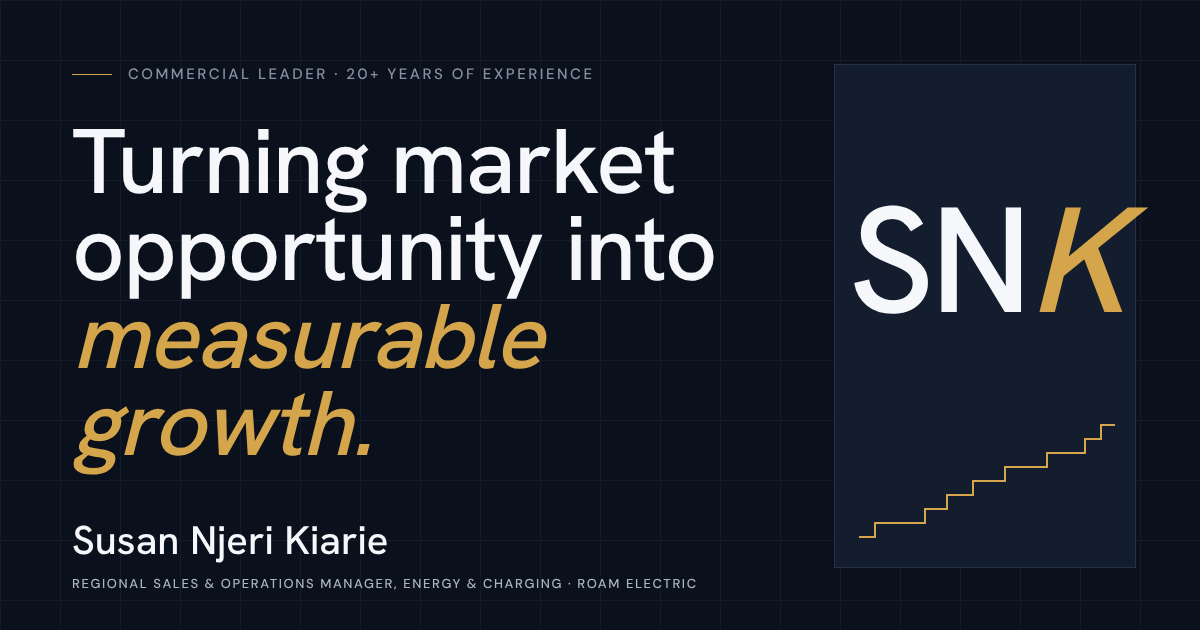
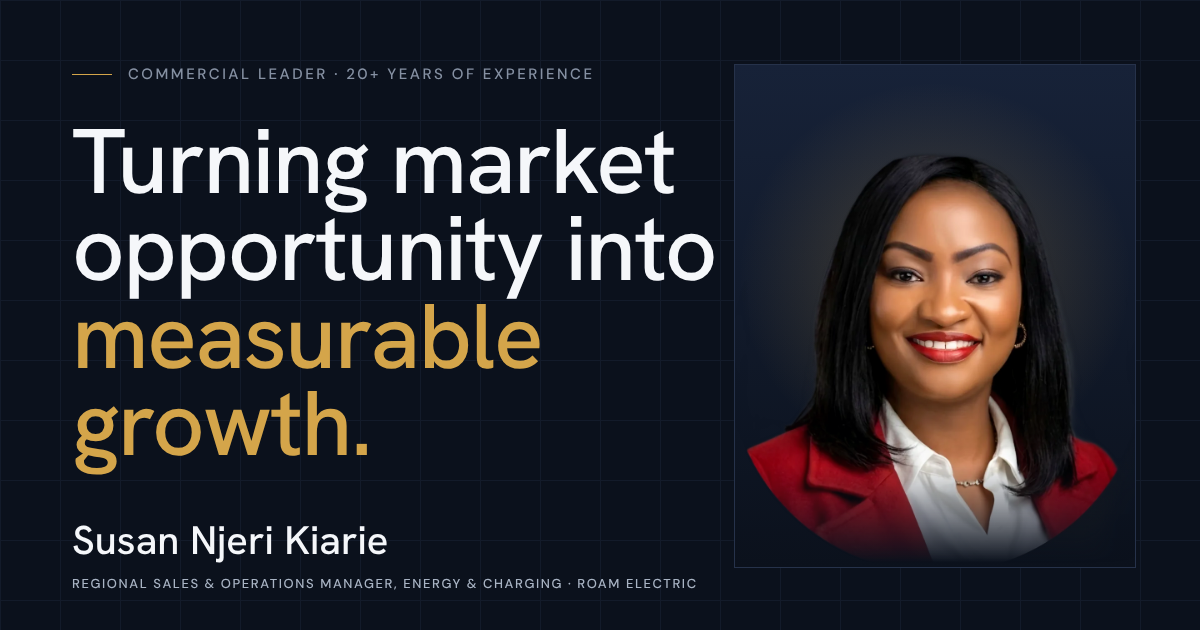
Add files via upload

diff --git a/index.html b/index.html
@@ -204,7 +204,7 @@ section { position: relative; padding-block: clamp(80px, 10vw, 152px); }
 .bring .bio { grid-column: 1 / span 5; margin-top: clamp(40px, 5vw, 72px); display: grid; gap: 18px; align-self: start; align-content: start; }
 .bring .bio p { color: var(--ink-2); max-width: 54ch; }
 .bring .bio p:first-child { color: var(--ink); font-size: 1.12rem; }
-.pillars { grid-column: 7 / span 6; margin-top: clamp(40px, 5vw, 72px); display: grid; grid-template-columns: repeat(2, minmax(0, 1fr)); column-gap: 28px; }
+.pillars { align-self: start; align-content: start; grid-column: 7 / span 6; margin-top: clamp(40px, 5vw, 72px); display: grid; grid-template-columns: repeat(2, minmax(0, 1fr)); column-gap: 28px; }
 .pillars li { padding: 20px 0 24px; border-top: 1px solid var(--rule); min-width: 0; }
 .pillars h3 { font-family: var(--serif); font-size: 1.45rem; line-height: 1.12; }
 .pillars p { margin-top: 8px; font-size: 0.9rem; line-height: 1.5; color: var(--ink-2); }
@@ -695,6 +695,46 @@ a.tile:focus-visible { outline: 2px solid var(--copper); outline-offset: 8px; }
   .node.hot b { font-size: 3rem; }
 }
 
+/* ---------- Photographs of Susan ---------- */
+.portrait.has-photo { background: radial-gradient(70% 55% at 50% 42%, rgba(212, 165, 74, 0.26), transparent 70%), linear-gradient(180deg, #172238 0%, #0B111C 100%); }
+.portrait.has-photo img { position: absolute; left: 0; right: 0; bottom: 0; width: 100%; height: auto; object-fit: contain; -webkit-mask-image: linear-gradient(to bottom, #000 74%, transparent 99%); mask-image: linear-gradient(to bottom, #000 74%, transparent 99%); filter: drop-shadow(0 18px 40px rgba(0, 0, 0, 0.45)); }
+.pt-mark { position: absolute; left: 22px; top: 18px; font: 600 1.15rem/1 var(--serif); letter-spacing: 0.02em; color: rgba(245, 247, 250, 0.7); pointer-events: none; z-index: 2; }
+.pt-mark i { font-style: normal; color: var(--copper); }
+
+.cut-photo { position: relative; margin: 28px 0 0; display: grid; justify-items: center; }
+.cut-photo::before { content: ""; position: absolute; left: 10%; right: 10%; bottom: 18px; height: 46px; border-radius: 50%; background: radial-gradient(closest-side, rgba(212, 165, 74, 0.38), transparent); filter: blur(4px); }
+.cut-photo img { position: relative; width: auto; max-width: 100%; max-height: 600px; height: auto; -webkit-mask-image: linear-gradient(to bottom, #000 82%, transparent 100%); mask-image: linear-gradient(to bottom, #000 82%, transparent 100%); filter: drop-shadow(0 10px 18px rgba(0, 0, 0, 0.35)); }
+.cut-photo figcaption { position: relative; margin-top: 4px; font: 600 0.7rem/1.3 var(--sans); letter-spacing: 0.16em; text-transform: uppercase; color: var(--on-navy-3); display: flex; align-items: center; gap: 10px; }
+.cut-photo figcaption::before { content: ""; width: 22px; height: 1px; background: var(--copper); }
+.lead-l .cut-photo img { max-height: 560px; }
+
+.sig.with-award { grid-template-columns: minmax(0, 2fr) minmax(0, 6fr) minmax(0, 3fr); align-items: center; }
+.sig.with-award .award { max-width: 320px; justify-self: end; }
+.award { margin: 0; perspective: 900px; }
+.award-frame { transform: rotateY(var(--ry, -8deg)) rotateX(var(--rx, 2deg)); transition: transform .6s cubic-bezier(.2,.7,.1,1); transform-style: preserve-3d; box-shadow: 0 30px 60px -20px rgba(0, 0, 0, 0.8), 0 0 0 1px rgba(212, 165, 74, 0.45); }
+.award-frame img { display: block; width: 100%; height: auto; }
+.award figcaption { margin-top: 14px; font: 600 0.7rem/1.4 var(--sans); letter-spacing: 0.14em; text-transform: uppercase; color: var(--on-navy-3); }
+
+.sign { display: flex; align-items: center; gap: 14px; margin-bottom: 24px; }
+.sign img { width: 64px; height: 64px; border-radius: 50%; object-fit: cover; border: 1px solid var(--copper); box-shadow: 0 0 0 4px rgba(212, 165, 74, 0.12); }
+.sign b { display: block; font: 500 1.1rem/1.2 var(--serif); color: var(--on-navy); }
+.sign span { display: block; font-size: 0.82rem; color: var(--on-navy-3); margin-top: 2px; }
+
+@media (max-width: 1020px) {
+  .sig.with-award { grid-template-columns: minmax(0, 1fr); }
+  .award { max-width: 420px; }
+  .cut-photo img { max-height: 520px; }
+}
+@media (max-width: 600px) {
+  .cut-photo img, .lead-l .cut-photo img { max-height: 440px; }
+  .award-frame { transform: none; }
+}
+@media (prefers-reduced-motion: reduce) { .award-frame { transform: none !important; } }
+@media (max-width: 1020px) {
+  .hero-figure { order: -1; margin: 0 0 36px; max-width: 300px; }
+  .hero-figure figcaption { display: none; }
+}
+
 </style>
 </head>
 <body>
@@ -733,18 +773,9 @@ a.tile:focus-visible { outline: 2px solid var(--copper); outline-offset: 8px; }
     </div>
     <figure class="hero-figure">
       <span class="corner tl" aria-hidden="true"></span><span class="corner br" aria-hidden="true"></span>
-      <div class="portrait">
-        <svg viewBox="0 0 400 500" role="img" aria-label="SNK monogram for Susan Njeri Kiarie, with a stepped line marking each career move from 2005 to 2026">
-          <defs><pattern id="g" width="50" height="50" patternUnits="userSpaceOnUse"><path d="M50 0H0V50" fill="none" stroke="var(--navy-rule)" stroke-width="0.6"/></pattern></defs>
-          <rect width="400" height="500" fill="url(#g)"/>
-          <text x="24" y="40" font-family="DM Sans, sans-serif" font-weight="600" font-size="10.5" letter-spacing="1.8" fill="var(--on-navy-3)">NAIROBI · 1°17′S 36°49′E</text>
-          <text x="376" y="40" text-anchor="end" font-family="DM Sans, sans-serif" font-weight="600" font-size="10.5" letter-spacing="1.8" fill="var(--on-navy-3)">20+ YRS</text>
-          <text x="200" y="262" text-anchor="middle" font-family="Clash Grotesk, Hanken Grotesk, sans-serif" font-weight="600" font-size="168" letter-spacing="-4" fill="var(--on-navy)">SN<tspan font-style="italic" fill="var(--copper)">K</tspan></text>
-          <path class="draw" d="M30 448 H35.1 V433 H99.5 V418 H120.1 V403 H147.1 V388 H180.7 V373 H233.5 V358 H285.0 V343 H339.1 V328 H357.2 V313 H370" fill="none" stroke="var(--copper)" stroke-width="1.6"/><circle cx="35.1" cy="433" r="2.6" fill="var(--navy)" stroke="var(--copper)" stroke-width="1.2"/><circle cx="99.5" cy="418" r="2.6" fill="var(--navy)" stroke="var(--copper)" stroke-width="1.2"/><circle cx="120.1" cy="403" r="2.6" fill="var(--navy)" stroke="var(--copper)" stroke-width="1.2"/><circle cx="147.1" cy="388" r="2.6" fill="var(--navy)" stroke="var(--copper)" stroke-width="1.2"/><circle cx="180.7" cy="373" r="2.6" fill="var(--navy)" stroke="var(--copper)" stroke-width="1.2"/><circle cx="233.5" cy="358" r="2.6" fill="var(--navy)" stroke="var(--copper)" stroke-width="1.2"/><circle cx="285.0" cy="343" r="2.6" fill="var(--navy)" stroke="var(--copper)" stroke-width="1.2"/><circle cx="339.1" cy="328" r="2.6" fill="var(--navy)" stroke="var(--copper)" stroke-width="1.2"/><circle cx="357.2" cy="313" r="2.6" fill="var(--navy)" stroke="var(--copper)" stroke-width="1.2"/>
-          <text x="30" y="478" font-family="DM Sans, sans-serif" font-weight="600" font-size="10.5" fill="var(--on-navy-3)">2005</text>
-          <text x="200" y="478" text-anchor="middle" font-family="DM Sans, sans-serif" font-weight="600" font-size="9.5" letter-spacing="1.6" fill="var(--on-navy-3)">CAREER MOVES</text>
-          <text x="370" y="478" text-anchor="end" font-family="DM Sans, sans-serif" font-weight="600" font-size="10.5" fill="var(--on-navy-3)">2026</text>
-        </svg>
+      <div class="portrait has-photo">
+        <span class="pt-mark" aria-hidden="true">SN<i>K</i></span>
+        <img src="assets/photos/susan-portrait.webp" alt="Susan Njeri Kiarie, smiling, in a red blazer and white shirt" width="960" height="1021" fetchpriority="high">
       </div>
       <figcaption><span>Susan Njeri Kiarie</span><span>Roam Electric · Nairobi, Kenya</span></figcaption>
     </figure>
@@ -758,7 +789,9 @@ a.tile:focus-visible { outline: 2px solid var(--copper); outline-offset: 8px; }
   <div class="wrap grid12">
     <p class="kicker" style="grid-column:1/-1">What I bring</p>
     <h2 class="statement" id="about-h">I build markets, scale businesses and turn partnerships into <span class="em">measurable growth</span>.</h2>
-    <div class="bio"><p>With 20+ years of experience in commercial leadership, I have worked for start-ups, market leaders and market challengers in Africa, selling to businesses, consumers and government. Today I lead regional sales and operations for energy and charging at Roam Electric in Nairobi.</p><p>My career runs from healthcare through telecommunications and IoT to renewable energy and electric mobility. In each, the work has been to set the commercial direction, open the market, build the team and partner channels, and keep a firm hand on margin, working capital and cost.</p></div>
+    <div class="bio"><p>With 20+ years of experience in commercial leadership, I have worked for start-ups, market leaders and market challengers in Africa, selling to businesses, consumers and government. Today I lead regional sales and operations for energy and charging at Roam Electric in Nairobi.</p><p>My career runs from healthcare through telecommunications and IoT to renewable energy and electric mobility. In each, the work has been to set the commercial direction, open the market, build the team and partner channels, and keep a firm hand on margin, working capital and cost.</p>
+      <figure class="cut-photo rv"><img src="assets/photos/susan-un-nairobi.webp" alt="Susan Njeri Kiarie at the United Nations offices in Nairobi, in a pink patterned dress and white cardigan" width="560" height="1400" loading="lazy"><figcaption>United Nations, Nairobi</figcaption></figure>
+    </div>
     <ul class="pillars"><li class="rv"><h3>Commercial strategy &amp; revenue growth</h3><p>Set the East Africa sales and business development strategy at Sagemcom and delivered US$10M+ in annual contract value.</p></li><li class="rv"><h3>Regional expansion &amp; market development</h3><p>Subsidiaries and offices in Uganda, Tanzania, Burundi and Mozambique, and a branch in Mombasa.</p></li><li class="rv"><h3>Renewable energy &amp; electric mobility</h3><p>Solar leasing and PPAs at ecoligo. EV charging, solar PV and battery storage at Roam Electric.</p></li><li class="rv"><h3>Telecoms, IoT &amp; enterprise technology</h3><p>M2M and IoT channels at Vodafone/Vodacom, operator and vendor accounts across the region, and cybersecurity and IT services.</p></li><li class="rv"><h3>Business transformation &amp; operational excellence</h3><p>Turnaround consultancy that lifted sales revenue by at least 30%, and end-to-end regional operations at Roam Electric.</p></li><li class="rv"><h3>Strategic partnerships &amp; leadership</h3><p>EPC and developer partners, channel partner networks, and teams of 5 to 40 people.</p></li>
     </ul>
   </div>
@@ -851,7 +884,8 @@ a.tile:focus-visible { outline: 2px solid var(--copper); outline-offset: 8px; }
       </div>
     </div>
 
-    <div class="sig"><span>Why it matters</span><p>Each contract was a power purchase or lease-to-own agreement, so the record year became revenue that recurs. The new Uganda operation added US$6M in deals in its first year.</p></div>
+    <div class="sig"><span>Why it matters</span><p>Each contract was a power purchase or lease-to-own agreement, so the record year became revenue that recurs. The new Uganda operation added US$6M in deals in its first year.</p>
+    </div>
   </div>
 </section>
 <section class="story s-navy grain bg-st-sagemcom" id="story-sagemcom" aria-labelledby="st-sagemcom">
@@ -874,7 +908,8 @@ a.tile:focus-visible { outline: 2px solid var(--copper); outline-offset: 8px; }
       </div>
     </div>
 
-    <div class="sig"><span>Why it matters</span><p>The share gain came through expansion: a new subsidiary in Uganda and new projects in Tanzania and Zambia, alongside monthly recurring revenue from projects.</p></div>
+    <div class="sig"><span>Why it matters</span><p>The share gain came through expansion: a new subsidiary in Uganda and new projects in Tanzania and Zambia, alongside monthly recurring revenue from projects.</p>
+    </div>
   </div>
 </section>
 <section class="story s-navy grain bg-st-vodafone" id="story-vodafone" aria-labelledby="st-vodafone">
@@ -888,7 +923,8 @@ a.tile:focus-visible { outline: 2px solid var(--copper); outline-offset: 8px; }
       <div class="rolebox"><span class="role-h">My role</span><ul class="role"><li>Designed and ran direct and indirect M2M and IoT sales channels.</li><li>Recruited channel partners and built a local IoT ecosystem in vertical industries.</li><li>Signed key partners, including Safaricom and Mezzanine, away from the competition.</li></ul></div>
     </div>
 
-    <div class="sig"><span>Recognition</span><p>I was named Best IoT/M2M Sales Person of the Year 2015–2016 at the Vodacom Sales Conference in Sun City, South Africa.</p></div>
+    <div class="sig with-award"><span>Recognition</span><p>I was named Best IoT/M2M Sales Person of the Year 2015–2016 at the Vodacom Sales Conference in Sun City, South Africa.</p><figure class="award rv"><div class="award-frame" data-tilt-card><img src="assets/photos/vodacom-award-2015-2016.webp" alt="Framed Vodacom Award of Excellence 2015–2016 certificate awarded to Susan Kiarie, beside a crystal trophy" width="900" height="984" loading="lazy"></div><figcaption>Vodacom Award of Excellence, 2015–2016</figcaption></figure>
+    </div>
   </div>
 </section>
 <section class="story s-navy grain bg-stool" aria-label="More milestones">
@@ -1116,6 +1152,7 @@ a.tile:focus-visible { outline: 2px solid var(--copper); outline-offset: 8px; }
       <h2 class="h2" id="lead-h">Building the teams that carry the number.</h2>
       <p class="lede">Across my career I have hired and supervised teams of between 5 and 40 people. I have built teams for new markets and rebuilt struggling ones.</p>
       <div class="lead-big rv"><b>5–40</b><span>people in the teams I have hired and supervised</span></div>
+      <figure class="cut-photo spot rv"><img src="assets/photos/susan-green-skills-summit.webp" alt="Susan Njeri Kiarie at the Africa Green Skills Summit, wearing a conference lanyard" width="760" height="1344" loading="lazy"><figcaption>Africa Green Skills Summit</figcaption></figure>
     </div>
     <div class="lead-r">
       <div class="lead-stats"><div><b>40</b><span>employees recruited at Mobiserve</span></div><div><b>+32 pts</b><span>teamwork and collaboration score, ecoligo team</span></div></div>
@@ -1150,6 +1187,7 @@ a.tile:focus-visible { outline: 2px solid var(--copper); outline-offset: 8px; }
     <p class="kicker" style="grid-column:1/-1">Contact</p>
     <h2 id="contact-h">Let’s build what comes <span class="em">next.</span></h2>
     <div class="contact-l">
+      <div class="sign"><img src="assets/photos/susan-avatar.webp" alt="" width="72" height="72" loading="lazy"><div><b>Susan Njeri Kiarie</b><span>Regional Sales &amp; Operations Manager, Energy &amp; Charging, Roam Electric</span></div></div>
       <p>I am open to conversations about commercial leadership, strategic partnerships, business growth and opportunities to scale across African markets.</p>
       <ul class="aud" aria-label="Conversations I welcome"><li>Executive search</li><li>Board &amp; advisory roles</li><li>Strategic partnerships</li><li>Market expansion</li></ul>
       <div class="contact-cta">
@@ -1380,6 +1418,19 @@ a.tile:focus-visible { outline: 2px solid var(--copper); outline-offset: 8px; }
         el.style.setProperty("--rx", (-y * 8).toFixed(2) + "deg");
       });
       host.addEventListener("pointerleave", function () { el.style.setProperty("--ry", "0deg"); el.style.setProperty("--rx", "0deg"); });
+    });
+  }
+
+  /* Award certificate: turns gently toward the pointer */
+  if (!reduce && window.matchMedia("(hover: hover) and (pointer: fine)").matches) {
+    doc.querySelectorAll("[data-tilt-card]").forEach(function (el) {
+      var host = el.parentElement;
+      host.addEventListener("pointermove", function (e) {
+        var r = host.getBoundingClientRect();
+        el.style.setProperty("--ry", (((e.clientX - r.left) / r.width - 0.5) * 16).toFixed(2) + "deg");
+        el.style.setProperty("--rx", (-((e.clientY - r.top) / r.height - 0.5) * 10).toFixed(2) + "deg");
+      });
+      host.addEventListener("pointerleave", function () { el.style.removeProperty("--ry"); el.style.removeProperty("--rx"); });
     });
   }
 

diff --git a/404.html b/404.html
@@ -176,7 +176,7 @@ section { position: relative; padding-block: clamp(80px, 10vw, 152px); }
 .bring .bio { grid-column: 1 / span 5; margin-top: clamp(40px, 5vw, 72px); display: grid; gap: 18px; align-self: start; align-content: start; }
 .bring .bio p { color: var(--ink-2); max-width: 54ch; }
 .bring .bio p:first-child { color: var(--ink); font-size: 1.12rem; }
-.pillars { grid-column: 7 / span 6; margin-top: clamp(40px, 5vw, 72px); display: grid; grid-template-columns: repeat(2, minmax(0, 1fr)); column-gap: 28px; }
+.pillars { align-self: start; align-content: start; grid-column: 7 / span 6; margin-top: clamp(40px, 5vw, 72px); display: grid; grid-template-columns: repeat(2, minmax(0, 1fr)); column-gap: 28px; }
 .pillars li { padding: 20px 0 24px; border-top: 1px solid var(--rule); min-width: 0; }
 .pillars h3 { font-family: var(--serif); font-size: 1.45rem; line-height: 1.12; }
 .pillars p { margin-top: 8px; font-size: 0.9rem; line-height: 1.5; color: var(--ink-2); }
@@ -665,6 +665,46 @@ a.tile:focus-visible { outline: 2px solid var(--copper); outline-offset: 8px; }
   .flow-row { grid-template-columns: minmax(0, 1fr); gap: 6px; }
   .arrow { width: 36px; height: 1px; transform: rotate(90deg); transform-origin: left center; margin: 6px 0 30px 6px; }
   .node.hot b { font-size: 3rem; }
+}
+
+/* ---------- Photographs of Susan ---------- */
+.portrait.has-photo { background: radial-gradient(70% 55% at 50% 42%, rgba(212, 165, 74, 0.26), transparent 70%), linear-gradient(180deg, #172238 0%, #0B111C 100%); }
+.portrait.has-photo img { position: absolute; left: 0; right: 0; bottom: 0; width: 100%; height: auto; object-fit: contain; -webkit-mask-image: linear-gradient(to bottom, #000 74%, transparent 99%); mask-image: linear-gradient(to bottom, #000 74%, transparent 99%); filter: drop-shadow(0 18px 40px rgba(0, 0, 0, 0.45)); }
+.pt-mark { position: absolute; left: 22px; top: 18px; font: 600 1.15rem/1 var(--serif); letter-spacing: 0.02em; color: rgba(245, 247, 250, 0.7); pointer-events: none; z-index: 2; }
+.pt-mark i { font-style: normal; color: var(--copper); }
+
+.cut-photo { position: relative; margin: 28px 0 0; display: grid; justify-items: center; }
+.cut-photo::before { content: ""; position: absolute; left: 10%; right: 10%; bottom: 18px; height: 46px; border-radius: 50%; background: radial-gradient(closest-side, rgba(212, 165, 74, 0.38), transparent); filter: blur(4px); }
+.cut-photo img { position: relative; width: auto; max-width: 100%; max-height: 600px; height: auto; -webkit-mask-image: linear-gradient(to bottom, #000 82%, transparent 100%); mask-image: linear-gradient(to bottom, #000 82%, transparent 100%); filter: drop-shadow(0 10px 18px rgba(0, 0, 0, 0.35)); }
+.cut-photo figcaption { position: relative; margin-top: 4px; font: 600 0.7rem/1.3 var(--sans); letter-spacing: 0.16em; text-transform: uppercase; color: var(--on-navy-3); display: flex; align-items: center; gap: 10px; }
+.cut-photo figcaption::before { content: ""; width: 22px; height: 1px; background: var(--copper); }
+.lead-l .cut-photo img { max-height: 560px; }
+
+.sig.with-award { grid-template-columns: minmax(0, 2fr) minmax(0, 6fr) minmax(0, 3fr); align-items: center; }
+.sig.with-award .award { max-width: 320px; justify-self: end; }
+.award { margin: 0; perspective: 900px; }
+.award-frame { transform: rotateY(var(--ry, -8deg)) rotateX(var(--rx, 2deg)); transition: transform .6s cubic-bezier(.2,.7,.1,1); transform-style: preserve-3d; box-shadow: 0 30px 60px -20px rgba(0, 0, 0, 0.8), 0 0 0 1px rgba(212, 165, 74, 0.45); }
+.award-frame img { display: block; width: 100%; height: auto; }
+.award figcaption { margin-top: 14px; font: 600 0.7rem/1.4 var(--sans); letter-spacing: 0.14em; text-transform: uppercase; color: var(--on-navy-3); }
+
+.sign { display: flex; align-items: center; gap: 14px; margin-bottom: 24px; }
+.sign img { width: 64px; height: 64px; border-radius: 50%; object-fit: cover; border: 1px solid var(--copper); box-shadow: 0 0 0 4px rgba(212, 165, 74, 0.12); }
+.sign b { display: block; font: 500 1.1rem/1.2 var(--serif); color: var(--on-navy); }
+.sign span { display: block; font-size: 0.82rem; color: var(--on-navy-3); margin-top: 2px; }
+
+@media (max-width: 1020px) {
+  .sig.with-award { grid-template-columns: minmax(0, 1fr); }
+  .award { max-width: 420px; }
+  .cut-photo img { max-height: 520px; }
+}
+@media (max-width: 600px) {
+  .cut-photo img, .lead-l .cut-photo img { max-height: 440px; }
+  .award-frame { transform: none; }
+}
+@media (prefers-reduced-motion: reduce) { .award-frame { transform: none !important; } }
+@media (max-width: 1020px) {
+  .hero-figure { order: -1; margin: 0 0 36px; max-width: 300px; }
+  .hero-figure figcaption { display: none; }
 }
 
 .nf { min-height: 100vh; display: grid; align-content: center; padding-block: 64px; }
